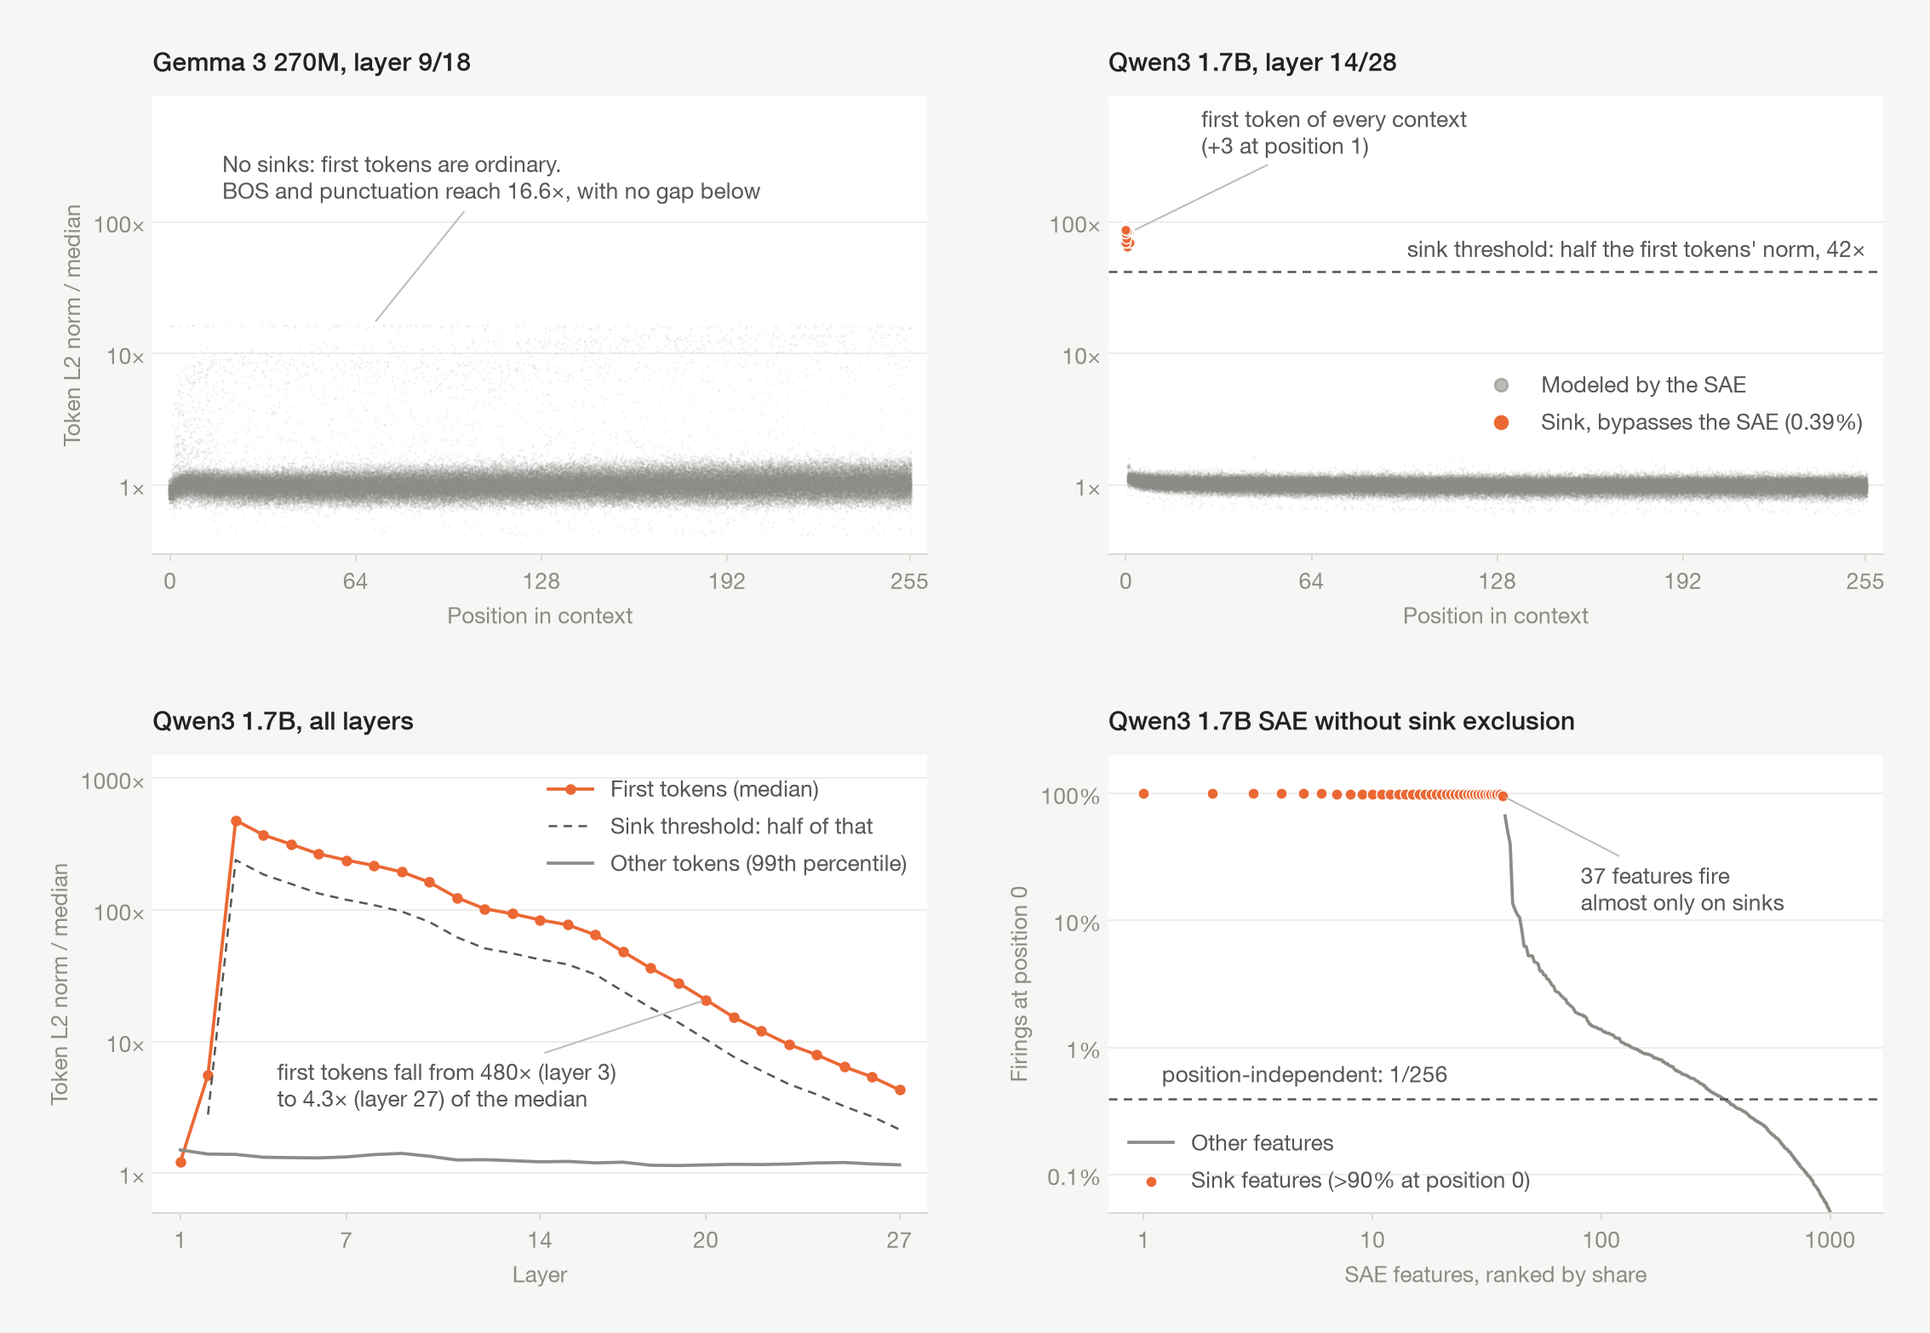
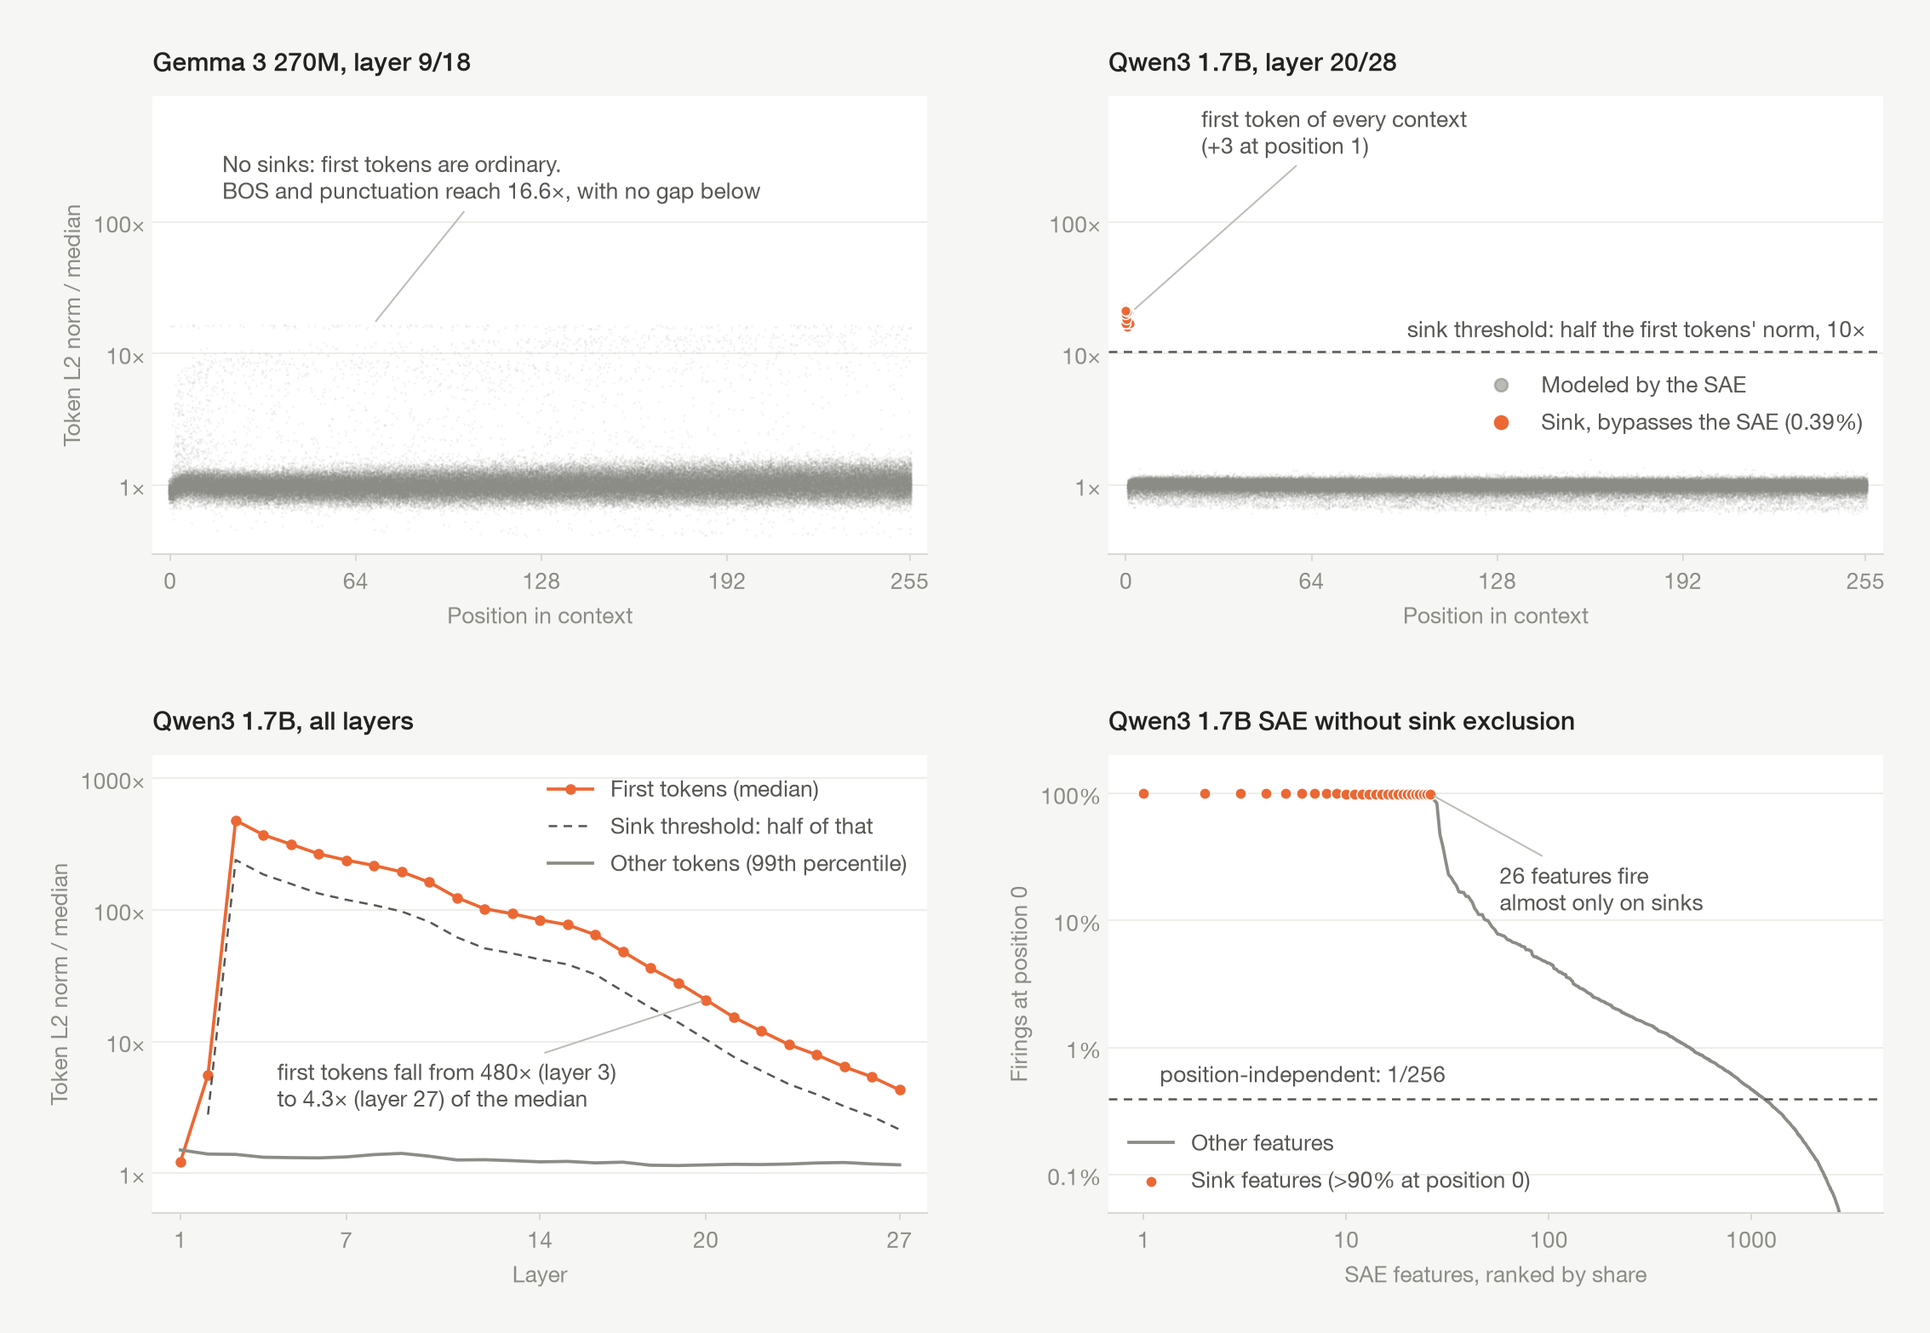
Update docs

diff --git a/docs/interpretation.md b/docs/interpretation.md
@@ -1,68 +1,63 @@
 # Feature interpretation
 
-`interpret.py` has an LLM write a title and a one- or two-sentence description for each SAE feature, then checks them two ways: on recorded activations the LLM hasn't seen, and on the studied model itself. Below, "name" means the title and description together. Titles, descriptions, scores, and test texts show up in the explorer.
+`interpret.py` has an LLM write a title and description for each SAE feature. It then checks whether they are right in two independent ways, and records which tokens the feature makes more likely when added to the model. Everything shows up in the explorer.
 
-![For each feature: sample recorded activations, name the feature, check the name on held-out tokens, write test texts that the studied model scores, revise a failing name once, and steer the decoder direction](../assets/interpretation_pipeline.svg)
+![For each feature: sample recorded activations, write a title and description, check them on held-out tokens, write test texts that the studied model scores, revise once on failure, and steer along the decoder direction](../assets/interpretation_pipeline.svg)
 
 ## Run
 
+Start a judge LLM, interpret a sample of features, then browse them:
+
 ```sh
 llama-server -m gemma-4-31B-it-Q8_0.gguf --port 8080 -c 32768 -np 4 -cram 0 --reasoning off
-python3 interpret.py --sae-dir artifacts/qwen3-1.7b-base_l14_w16_k32_500m --base-url http://127.0.0.1:8080/v1 --sample 500
-python3 explore.py --sae-dir artifacts/qwen3-1.7b-base_l14_w16_k32_500m
+python3 interpret.py --sae-dir artifacts/qwen3-1.7b-base_l20_w16_k32_500m --base-url http://127.0.0.1:8080/v1 --sample 1000
+python3 explore.py --sae-dir artifacts/qwen3-1.7b-base_l20_w16_k32_500m
 ```
 
-- `--sample N` names N features spread evenly over activation density, `--features` names specific ones, and neither names every feature with at least 40 recorded activations.
-- Results are appended to `interpretations.jsonl` in the activation directory. A rerun skips features already there, so it resumes where it stopped and retries features that failed.
-- `-cram 0` keeps llama-server's prompt cache from filling RAM. `--reasoning off` makes every call answer directly in JSON, which the token limits are sized for. `-np 4` matches the default `--workers 4`.
-- On an M4 Max, gemma-4-31B-it (~40GB of RAM) takes about 36 s per feature, 5 hours for 500. gemma-4-12B-it decodes ~3x faster and is a bit less precise ([results](#results)).
+- `--sample N` picks N features spread over activation density, `--features` picks specific ones, and without either every feature with at least 1,000 recorded activations is interpreted. Rarer features barely make the SAE's top k, so their activations are small and vanish with any change of context: their titles come out vague and their tests fail.
+- Results go to `interpretations.jsonl` in the activation directory. A rerun skips the features already there, so an interrupted run resumes.
+- `-cram 0` keeps llama-server's prompt cache from filling RAM, `--reasoning off` makes the LLM answer directly, and `-np 4` matches `interpret.py`'s 4 workers.
+- With gemma-4-31B-it on an M4 Max, a feature takes about 45 s (1,000 in about 12 hours). gemma-4-12B-it is about 3x faster but its titles and descriptions pass fewer tests.
 
-## Method
+## How it works
 
-- **Sample and explain**: the explainer sees the 8 strongest activations and 12 drawn evenly from activation-quantile bins (0-50, 50-80, 80-95, 95-100%), 32 tokens before and 8 after, with the firing tokens marked and their activations on a 1-10 scale, plus the tokens the feature fires on most and the share of their occurrences it fires on. Sampling across the range keeps the name from describing only the peak. [1]
-- **Detect**: a judge given only the name says whether the feature fires on each of 24 marked tokens it hasn't seen: 12 activations from the same bins, and 12 silent tokens split between random ones, the feature's frequent tokens where it stays silent, and activations of the feature with the closest decoder direction. The last two are hard negatives: a vague or token-level name says yes to them. Balanced accuracy averages recall with the specificity on each kind of silent token. [1]
-- **Write tests and measure**: the judge writes 6 pairs of texts from the name, one meant to make the feature fire and a minimal contrast meant to keep it silent, and the model and SAE measure the actual activations; a pair passes when the contrast's activation is under half the first text's (a smaller drop is within what irrelevant changes cause). The model, not a judge, is the ground truth, so this catches names that are right about the examples but too broad. [2, 3]
-- **Revise**: when fewer than 4 of 6 pairs pass, the explainer sees the measured activations and revises the name once; the version with the higher detection plus pass rate is kept. [3]
-- **Steer**: the decoder direction is added at the SAE's layer on 8 neutral prompts, at the strongest multiple of the max activation (0.5-16x) that keeps the KL from the unsteered next-token predictions within 1 nat, and the tokens whose log-probability rises most are reported. This stays separate from the name, since what a mid-layer feature fires on and what it promotes often differ. [4, 5]
-- **Output**: one JSON line per feature with the name, both scores, the measured test pairs, and the steering result. The explorer lists named features first and shows these on each feature page.
+The steps match the diagram.
+
+1. **Sample.** Pick 20 excerpts where the feature fires: the 8 strongest, plus 3 from each activation band (0-50, 50-80, 80-95 and 95-100th percentile), so that the title and description cover how the feature usually fires, not only its peak. 12 more are kept aside for step 3. [1]
+2. **Explain.** The LLM reads the excerpts, with the firing tokens marked by strength, and writes a title and description.
+3. **Detect.** A fresh LLM call sees only the title and description and guesses, for 24 tokens it has never seen, whether the feature fires there. Half are firing tokens. The other half are tokens where it stays silent, including tricky ones: tokens it fires on only sometimes, in places where it doesn't, and tokens where its most similar feature fires. A title and description that only list tokens, or are too vague, fail on those. The score is balanced accuracy: 0.5 is chance, 1 is perfect. [1]
+4. **Write tests.** The LLM writes 6 pairs of new texts: one that should make the feature fire, and a minimal edit of it that should not. The edit comes at or before the token where the feature should fire, since the model reads left to right.
+5. **Measure.** The studied model reads each text and the SAE measures the feature. A pair passes if the edit at least halves the activation. Here the model itself is the judge, which catches titles and descriptions that fit the examples but are too broad. [2, 3]
+6. **Revise.** If fewer than 4 of 6 pairs pass, the LLM sees the measured activations and rewrites the title and description once. Steps 3-5 run again, and the version with the better scores is kept. [3]
+7. **Steer.** The feature's direction is added to the model on 8 neutral prompts, and the 10 next tokens whose probability rises the most are recorded. This shows what the feature does to the output, which can differ from what it fires on. [4, 5]
+
+   The strength is the strongest one that changes the next-token predictions by at most 1 nat of KL divergence. A weaker push barely changes anything, and a stronger one makes the model output generic junk. A fixed strength would not work either: at 4x the max activation, the KL ranges from 0.7 to 6.8 nats across features.
+
+## Reading the scores
+
+- **Detection** says whether the title and description cover where the feature fires. **Tests** say whether the conditions they state are real. The two barely correlate, so both matter:
+  - Feature 7778, "Possessive or Contraction Apostrophe", scores 0.92 on detection, but none of its 6 tests fire. It fires on a standalone apostrophe token, as in "the dogs' leash" or "Charles' book". The tokenizer merges the apostrophe in "Sarah's" and "doesn't" into `'s` and `'t`, so the feature never fires on standard possessives and contractions.
+  - Feature 28476, "Applied Sciences and Academic Disciplines", passes all 6 tests ("Applied Physics" fires, "Theoretical Physics" doesn't), but detection is at chance: most of its activations are on words like " apply" and " application", which the description calls weak.
+- A title and description is trusted when it passes both checks: detection of at least 0.7 and at least 4 of 6 passing tests. Every feature is saved either way, and the explorer lists trusted features first, then low-confidence ones (greyed out and tagged), then features without a title.
+- Steering tokens are recorded separately from the title and description. They often agree (feature 14551, on bending and curving, steers toward " sideways", " forward", " downward"), but sometimes show something more: feature 27441 fires on the first comma of lists like "local, state and national", and steers toward " middle", " intermediate", " medium", the item it expects next.
 
 ## Results
 
-Names come from the Qwen3 1.7B layer-14 run, with gemma-4-31B-it (Q8_0, llama-server) as explainer and judge. The design was settled on 60 features stratified by activation density, then the final pipeline ran on 40 others.
+1,000 features of the Qwen3 1.7B layer-20 SAE, spread over activation density (the `--sample 1000` command above), with gemma-4-31B-it writing and judging:
 
-Detection on the 60 features, with the judge given different descriptions (before revision):
+- Detection averages 0.71. The judge recognizes 80% of the strongest activations (top 5%) but only 32% of the weakest half: titles and descriptions describe the peak better than the tail.
+- 64% of test pairs pass, 64% of features pass at least 4 of 6, and 10% pass none.
+- 39% of features are trusted, and 30% of the titles and descriptions were revised.
+- Rarer features are easier to describe. 69% are trusted in the rarest tenth (1,000 to 5,800 activations in 100M tokens), but only 8% in the densest tenth (over 340,000): those fire in so many contexts that the title only covers the strongest.
+- The steering strength is 1-4x the max activation for 93% of features.
 
-| Description | Balanced accuracy |
+Detection measures the description, not just the tokens it names. On 200 of these features and a fresh set of held-out tokens, the judge did much better with the explainer's title and description than with a token list or another feature's description:
+
+| Judge given | Balanced accuracy |
 |---|---:|
-| Explainer's | 0.69 |
-| The feature's most frequent tokens only | 0.57 |
-| Another feature's | 0.51 |
-
-Final pipeline on the 40 other features, in 24 minutes (36 s per feature, 4 parallel requests on an M4 Max Mac Studio):
-- Detection balanced accuracy 0.71. The judge says the feature fires on 80% of the activations in the top 5%, 66% at 80-95%, 51% at 50-80% and 28% in the bottom half; and on 3% of random tokens, 14% of the closest feature's activations and 26% of the feature's frequent tokens where it stays silent.
-- Generated tests: 63% of pairs pass, 70% of features pass at least 4 of 6, 20% pass none.
-- 40% of features pass both checks (detection at least 0.7 and 4 of 6 generated tests). 22% of the names come from the revision.
-
-- Names describe the peak, not the tail: weak activations often land on arbitrary tokens in a topical context (any token of a firearms spec sheet), which a name doesn't predict.
-- Detection alone overrates broad names, since the held-out examples share the training examples' quirks. Feature 29056 fires on the comma after page ranges in RePEc citations (`vol. 74(1), pages 119-147, September`): "academic citation volume and page range" scored 1.00 on detection, but none of 6 citations in other formats activated it. The two checks barely correlate (Spearman 0.17): detection measures coverage, generated tests precision.
-- Until the margin below was chosen, a pair passed when the first text fired more by any margin; the design-phase numbers here use that rule.
-- Revision with the measured activations raised the generated-test pass rate of the 28 failing names from 26% to 44% (10 then passed 4 of 6). Re-testing the original names on freshly sampled texts gave 28% (1 passed), so the gain isn't regression to the mean. Detection held (0.66 to 0.64) as names got narrower: the judge said yes to 41% of same-token negatives instead of 54%.
-- Short texts suffice for generated tests: real top-activation excerpts fire as strongly alone as after a preceding paragraph.
-- Any margin was too lenient: for feature 4064, an adjective after an indefinite pronoun ("something new", "nothing special"), every contrast still fired at 43-89% of the max, yet "positive or novel qualifiers" passed 5 of 6 pairs. A neutral sentence before a firing text (420 texts, 3 sentences) leaves the median activation unchanged, cuts it below 0.76x for only 5% of texts and halves it for 1.7%, while swapping words the feature doesn't care about moves it by up to half; so a pair now passes only if the contrast stays under half. That rule flips 23 of 175 passing pairs, and 4064 drops to 0 of 6. Agreement between two independent sets of generated texts for the same names falls slightly, from 0.78 to 0.70 (Pearson over features): the stricter rule tests a harder property.
-- Logit-lens tokens in the explainer prompt made no difference (detection +0.002 ± 0.020, generated tests -0.025 ± 0.064, 95% CIs) and were dropped.
-- gemma-4-12B-it decodes ~3x faster. As judge of the same names its per-feature detection correlates 0.81 with the 31B's, and it is slightly stricter (0.66 vs 0.69 detection, 54% vs 62% generated tests). As explainer, judged by the 12B, its names match the 31B's on detection (0.65 vs 0.66) but pass fewer generated tests (48% vs 54%).
-- At a fixed 4x max activation the steering KL spans 0.5 to 5.8 nats (10th to 90th percentile), hence the per-feature calibration; the median feature stays within 1 nat up to 2x. Steering tokens often confirm the name (coal: " coal", " methane", " mines"), but some show an effect the name misses: feature 15393, "major sporting events", steers toward " terrorist", " protests", " ISIS".
-
-<details>
-<summary>Command for the 40 features</summary>
-
-```sh
-llama-server -m gemma-4-31B-it-Q8_0.gguf --port 8080 -c 32768 -np 4 -cram 0 --reasoning off
-python3 interpret.py --sae-dir artifacts/qwen3-1.7b-base_l14_w16_k32_500m --base-url http://127.0.0.1:8080/v1 \
-  --features 29735 7213 3573 4023 5255 20162 11626 12119 21637 10036 27736 25036 3303 16911 16739 5989 5509 29444 11997 7825 29895 20163 4064 8481 6118 20468 14934 4979 20010 20963 29412 7464 160 18972 16090 1877 27889 16601 5063 21072
-```
-
-</details>
+| The explainer's title and description | 0.73 |
+| Only the feature's most frequent tokens | 0.62 |
+| Another feature's title and description | 0.50 |
 
 Sources:
 - [1] [Automatically Interpreting Millions of Features in Large Language Models](https://arxiv.org/abs/2410.13928)

diff --git a/docs/experiments.md b/docs/experiments.md
@@ -11,14 +11,14 @@ Hardware: M4 Max Mac Studio (CPU 16C, GPU 40C, 64GB RAM)
 
 ## Ablations
 
-Runs train on 100M FineWeb tokens and validate on 10M held-out ones, with downstream KL on 1M of them (95% CIs are about ±0.005 for Gemma and ±0.002 for Qwen). Each row adds its flags to the base command.
+Gemma runs train on 100M FineWeb tokens and Qwen runs on 500M. Both validate on 10M held-out tokens, with downstream KL on 1M of them (95% CIs are about ±0.005 for Gemma and ±0.003 for Qwen). Each row adds its flags to the base command.
 
 <details>
 <summary>Base commands</summary>
 
 ```sh
 python3 train.py --model-id unsloth/gemma-3-270m --activation-layer 9 --k 16 --train-tokens 100000000 --validation-tokens 10000000 --recording-tokens 0 --validate-every 100000000 --cache-activations
-python3 train.py --model-id unsloth/Qwen3-1.7B-Base --activation-layer 14 --train-tokens 100000000 --validation-tokens 10000000 --recording-tokens 0 --validate-every 100000000
+python3 train.py --model-id unsloth/Qwen3-1.7B-Base --activation-layer 20 --train-tokens 500000000 --validation-tokens 10000000 --recording-tokens 0 --validate-every 100000000
 ```
 
 </details>
@@ -38,14 +38,14 @@ Gemma 3 270M, layer 9, `k=16`:
 - Gradient clipping makes no difference within the KL's confidence interval but slows training by 35%, so it's off by default.
 - Passing [massive dimensions](#massive-activations) through lowers KL by 18%.
 
-Qwen3 1.7B, layer 14, `k=32`:
+Qwen3 1.7B, layer 20, `k=32`:
 
 | Run | Flags | Pass-through dims | Dead features | Downstream KL |
 |---|---|---|---:|---:|
-| Default | | none | 9.7% | 0.148 |
-| No sink exclusion | `--no-exclude-sinks` | 1401, 1793, 1999 | 12.3% | 0.148 |
+| Default | | none | 8.3% | 0.184 |
+| No sink exclusion | `--no-exclude-sinks` | 1793, 1999 | 11.2% | 0.185 |
 
-- Excluding [sink tokens](#massive-activations) leaves KL unchanged but lowers dead features, and frees the 37 features that otherwise fire almost only at position 0.
+- Excluding [sink tokens](#massive-activations) leaves KL unchanged but lowers dead features, and frees the 26 features that otherwise fire almost only at position 0.
 
 ## Massive activations
 
@@ -61,7 +61,7 @@ A few residual dimensions carry extremely large activations that mark attention 
 ## Performance
 
 - On MPS, compiling the layers before the capture point speeds up activation capture by ~2x for Gemma 3 270M, ~1.5x for Qwen3 0.6B, and ~1.2x for Qwen3 1.7B.
-- With the defaults, Gemma 3 270M trains at ~122k tok/s on cached residuals and Qwen3 1.7B at ~6.3k tok/s streamed; both are GPU-bound.
+- With the defaults, Gemma 3 270M trains at ~122k tok/s on cached residuals and Qwen3 1.7B at layer 20 at ~4.9k tok/s streamed; both are GPU-bound.
 
 ## Feature interpretation
 

diff --git a/docs/training-guides/qwen.md b/docs/training-guides/qwen.md
@@ -5,7 +5,7 @@
 ```sh
 python3 train.py \
   --model-id unsloth/Qwen3-1.7B-Base \
-  --activation-layer 14 \
+  --activation-layer 20 \
   --width-multiplier 16 \
   --train-tokens 500000000 \
   --checkpoint-every 250000000 \
@@ -21,7 +21,7 @@ python3 train.py \
 2. Record feature activations:
 
 ```sh
-python3 record_activations.py --sae-dir artifacts/qwen3-1.7b-base_l14_w16_k32_500m
+python3 record_activations.py --sae-dir artifacts/qwen3-1.7b-base_l20_w16_k32_500m
 ```
 
 3. Optionally, name the features with a local LLM and check each name: see [Feature interpretation](../interpretation.md).
@@ -29,5 +29,5 @@ python3 record_activations.py --sae-dir artifacts/qwen3-1.7b-base_l14_w16_k32_50
 4. Explore the features at http://127.0.0.1:8000 (the first launch summarizes every feature once, which takes under a minute):
 
 ```sh
-python3 explore.py --sae-dir artifacts/qwen3-1.7b-base_l14_w16_k32_500m
+python3 explore.py --sae-dir artifacts/qwen3-1.7b-base_l20_w16_k32_500m
 ```
